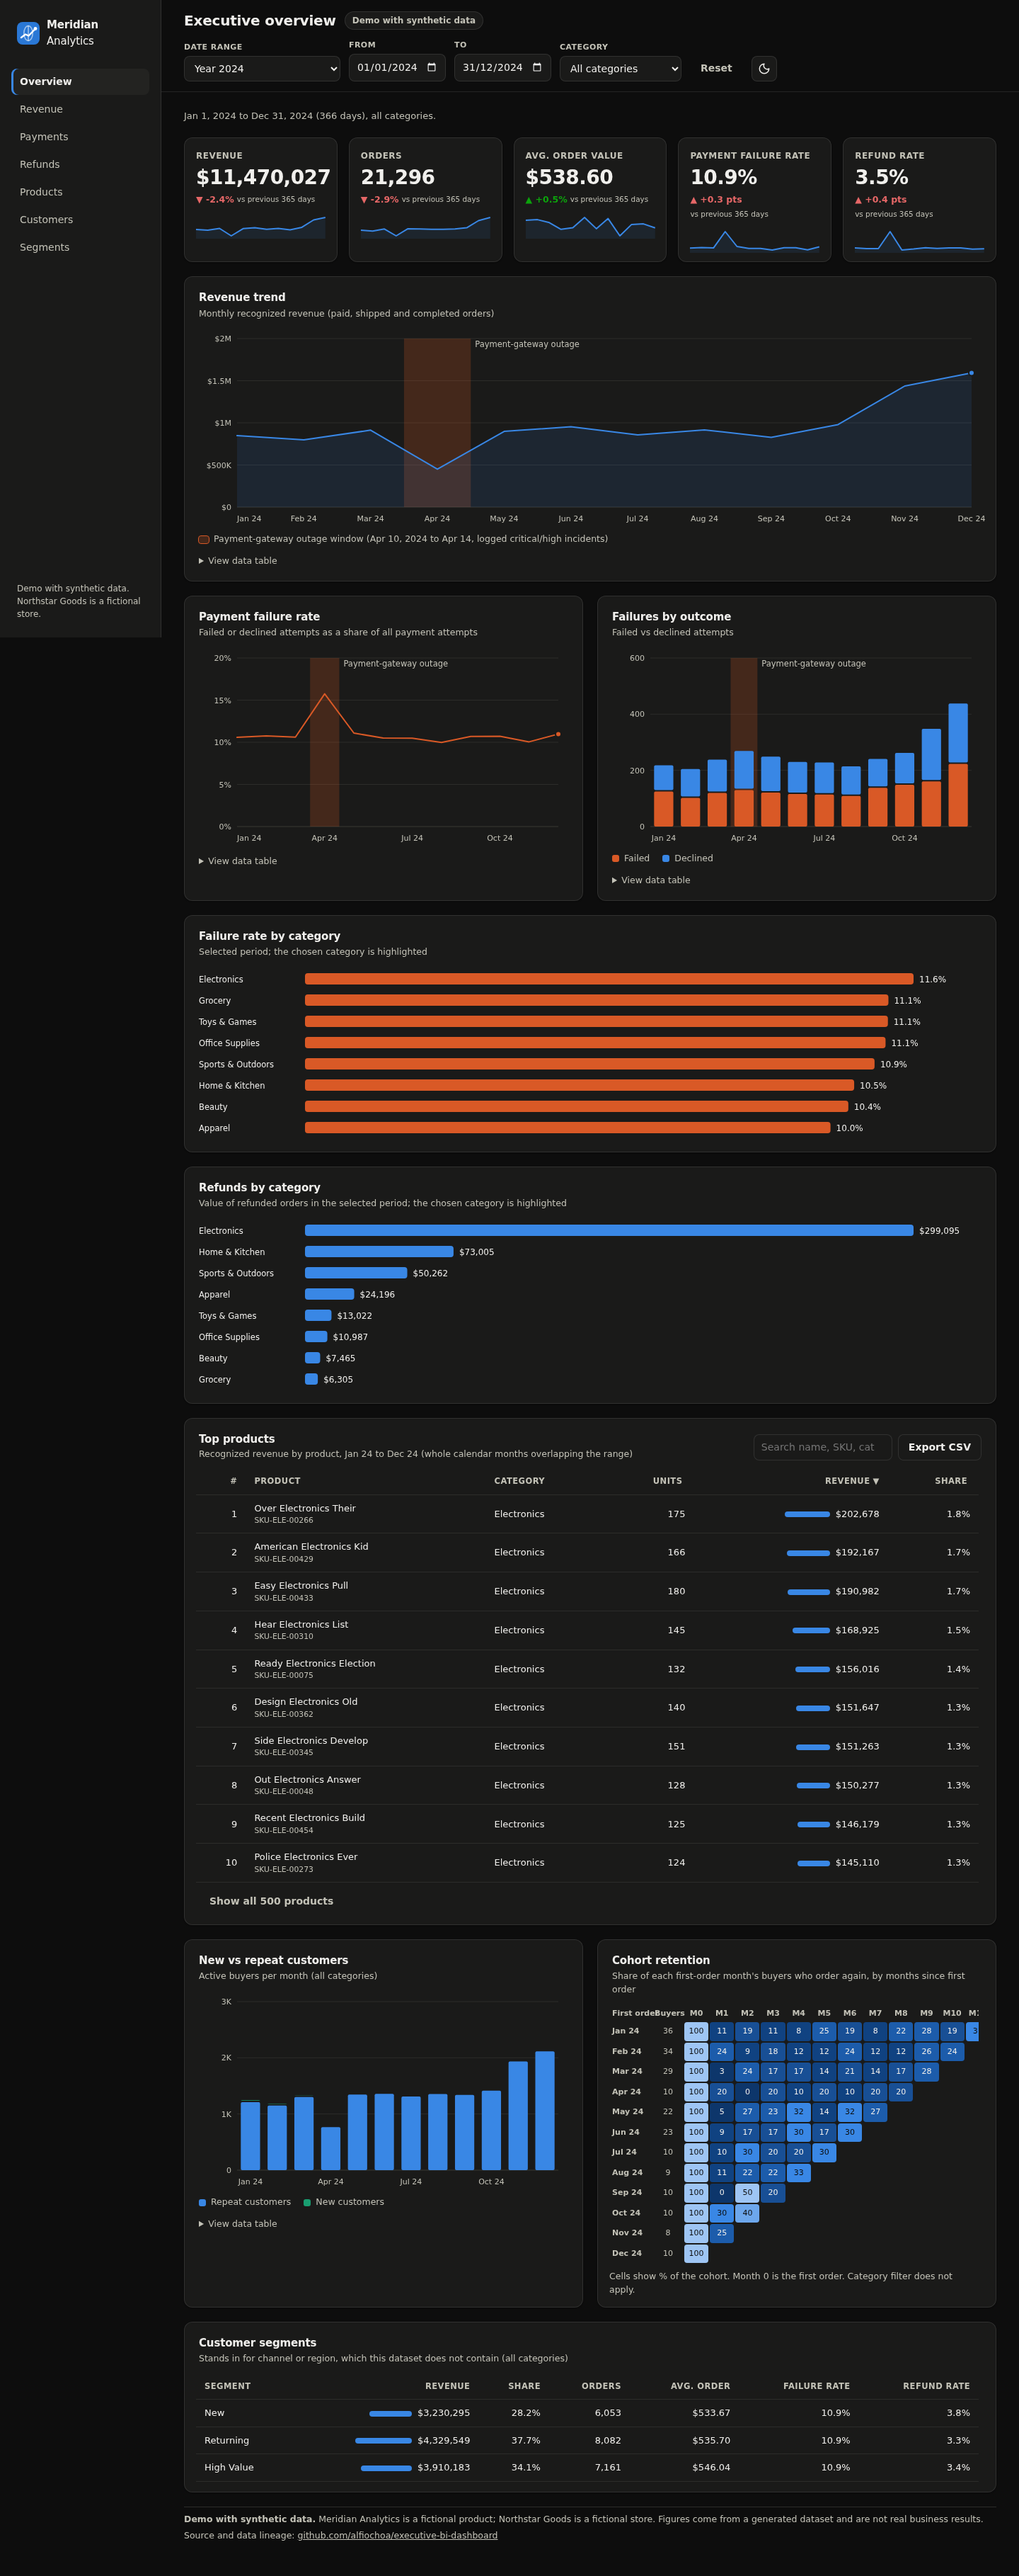
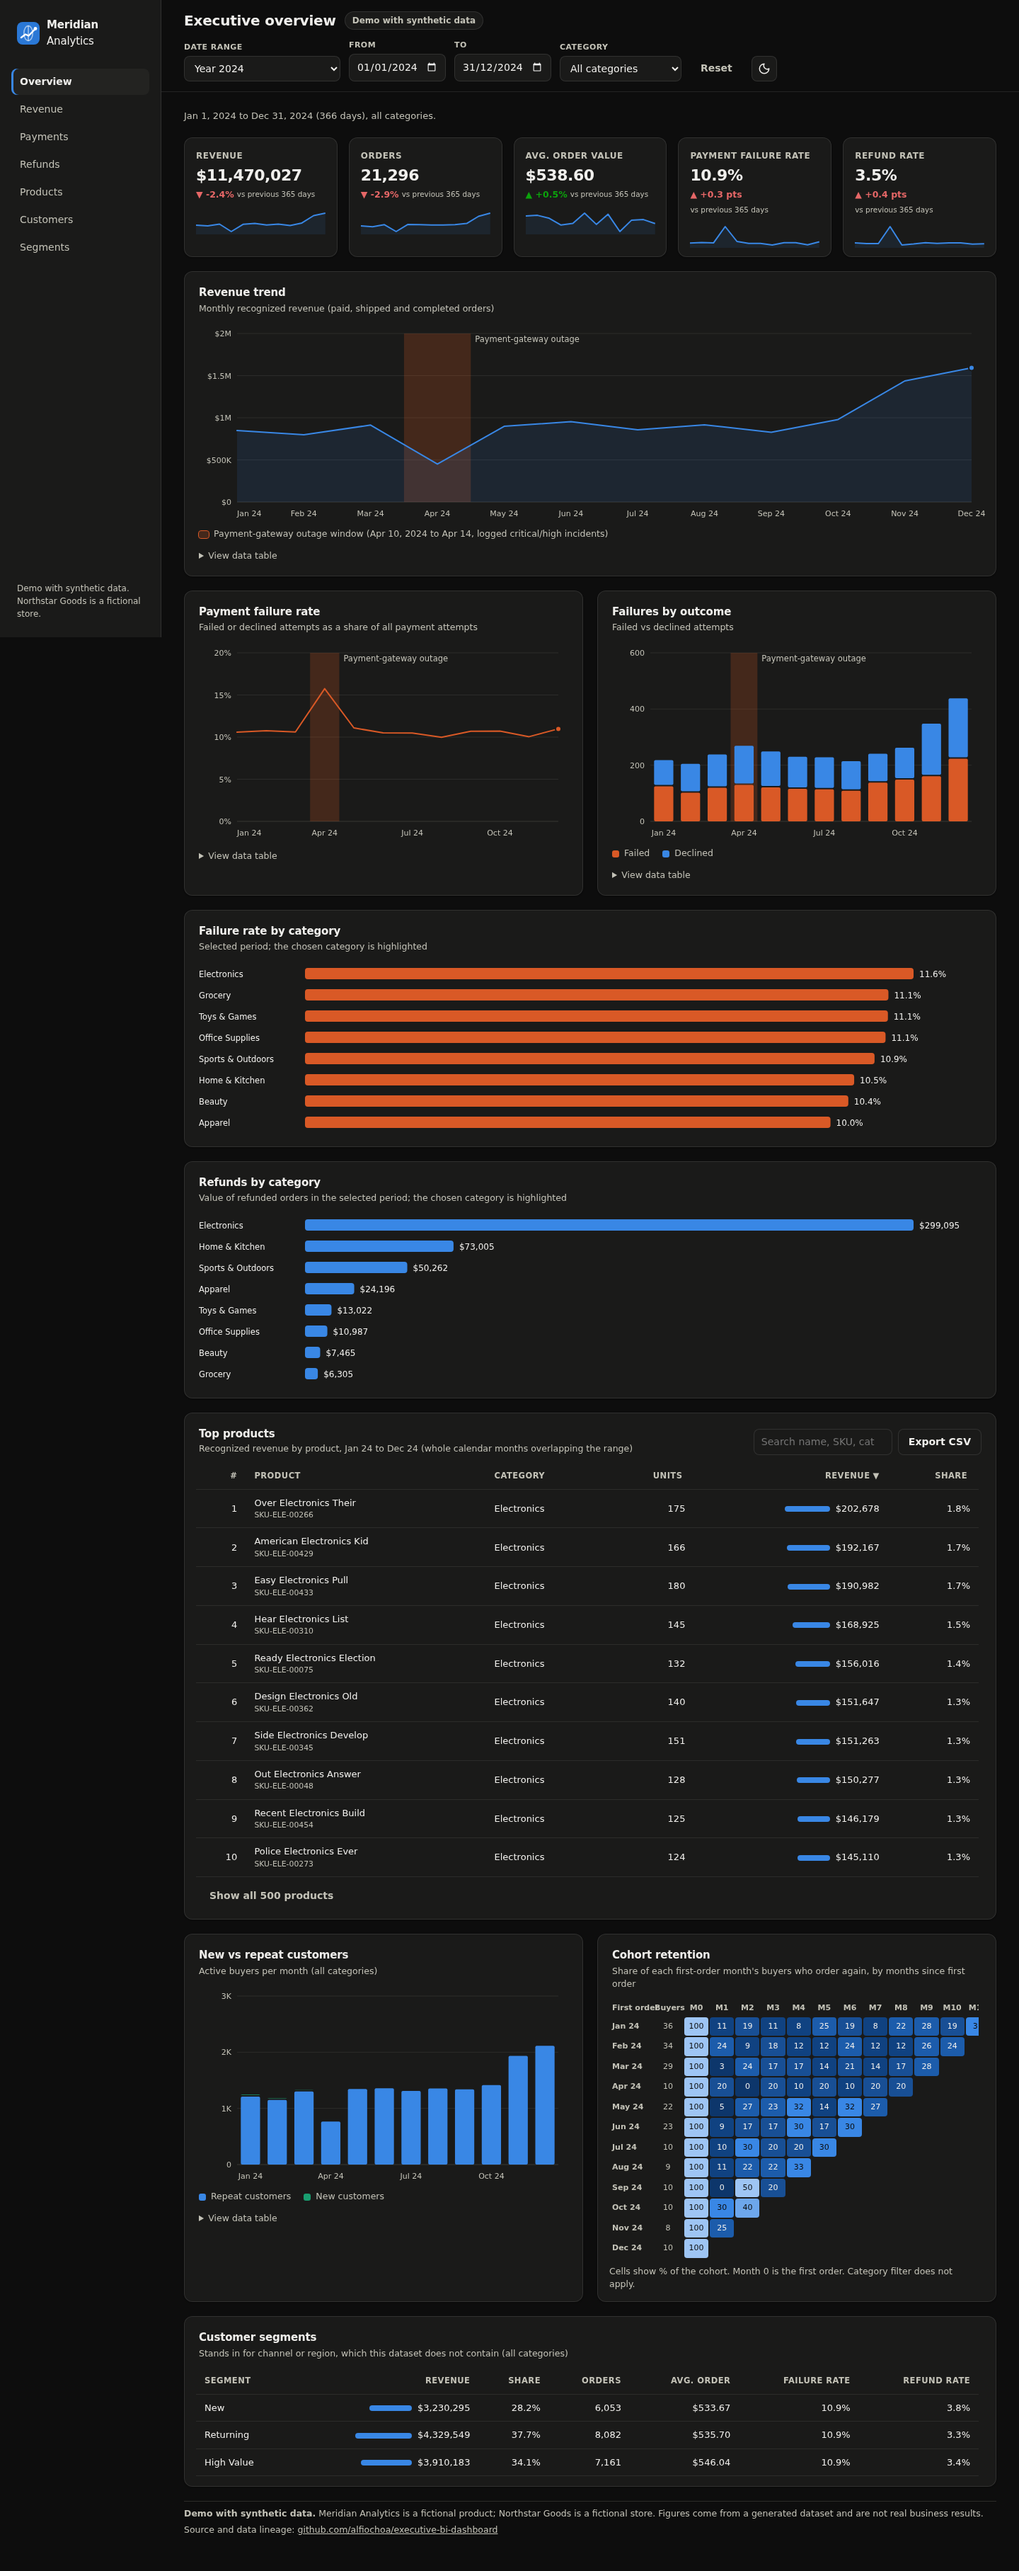
fix: apply KPI container-query sizing after base rule

diff --git a/styles.css b/styles.css
@@ -89,7 +89,6 @@ main { padding: 24px 32px 48px; display: flex; flex-direction: column; gap: 20px
 
 .kpis { display: grid; grid-template-columns: repeat(3, minmax(0, 1fr)); gap: 16px; }
 #overview { container-type: inline-size; }
-@container (min-width: 1100px) { .kpis { grid-template-columns: repeat(5, minmax(0, 1fr)); } .kpi-v { font-size: 22px; } }
 .kpi { background: var(--surface); border: 1px solid var(--border); border-radius: var(--radius); padding: 16px 16px 12px; box-shadow: var(--shadow); display: flex; flex-direction: column; gap: 6px; min-width: 0; animation: rise .45s ease both; }
 .kpi:nth-child(2){animation-delay:.04s}.kpi:nth-child(3){animation-delay:.08s}.kpi:nth-child(4){animation-delay:.12s}.kpi:nth-child(5){animation-delay:.16s}
 .kpi-l { font-size: 12px; font-weight: 600; letter-spacing: .04em; text-transform: uppercase; color: var(--ink2); }
@@ -97,6 +96,7 @@ main { padding: 24px 32px 48px; display: flex; flex-direction: column; gap: 20px
 .delta { flex-wrap: wrap; font-size: 12.5px; font-weight: 600; display: inline-flex; align-items: center; gap: 4px; font-variant-numeric: tabular-nums; }
 .delta.good { color: var(--good); } .delta.bad { color: var(--bad); } .delta.flat { color: var(--ink2); }
 .delta small { font-weight: 400; color: var(--ink2); }
+@container (min-width: 1100px) { .kpis { grid-template-columns: repeat(5, minmax(0, 1fr)); } .kpi .kpi-v { font-size: 22px; } }
 .kpi svg { display: block; width: 100%; height: 36px; overflow: visible; margin-top: 4px; }
 
 .panel { background: var(--surface); border: 1px solid var(--border); border-radius: var(--radius); padding: 18px 20px 14px; box-shadow: var(--shadow); min-width: 0; position: relative; }
